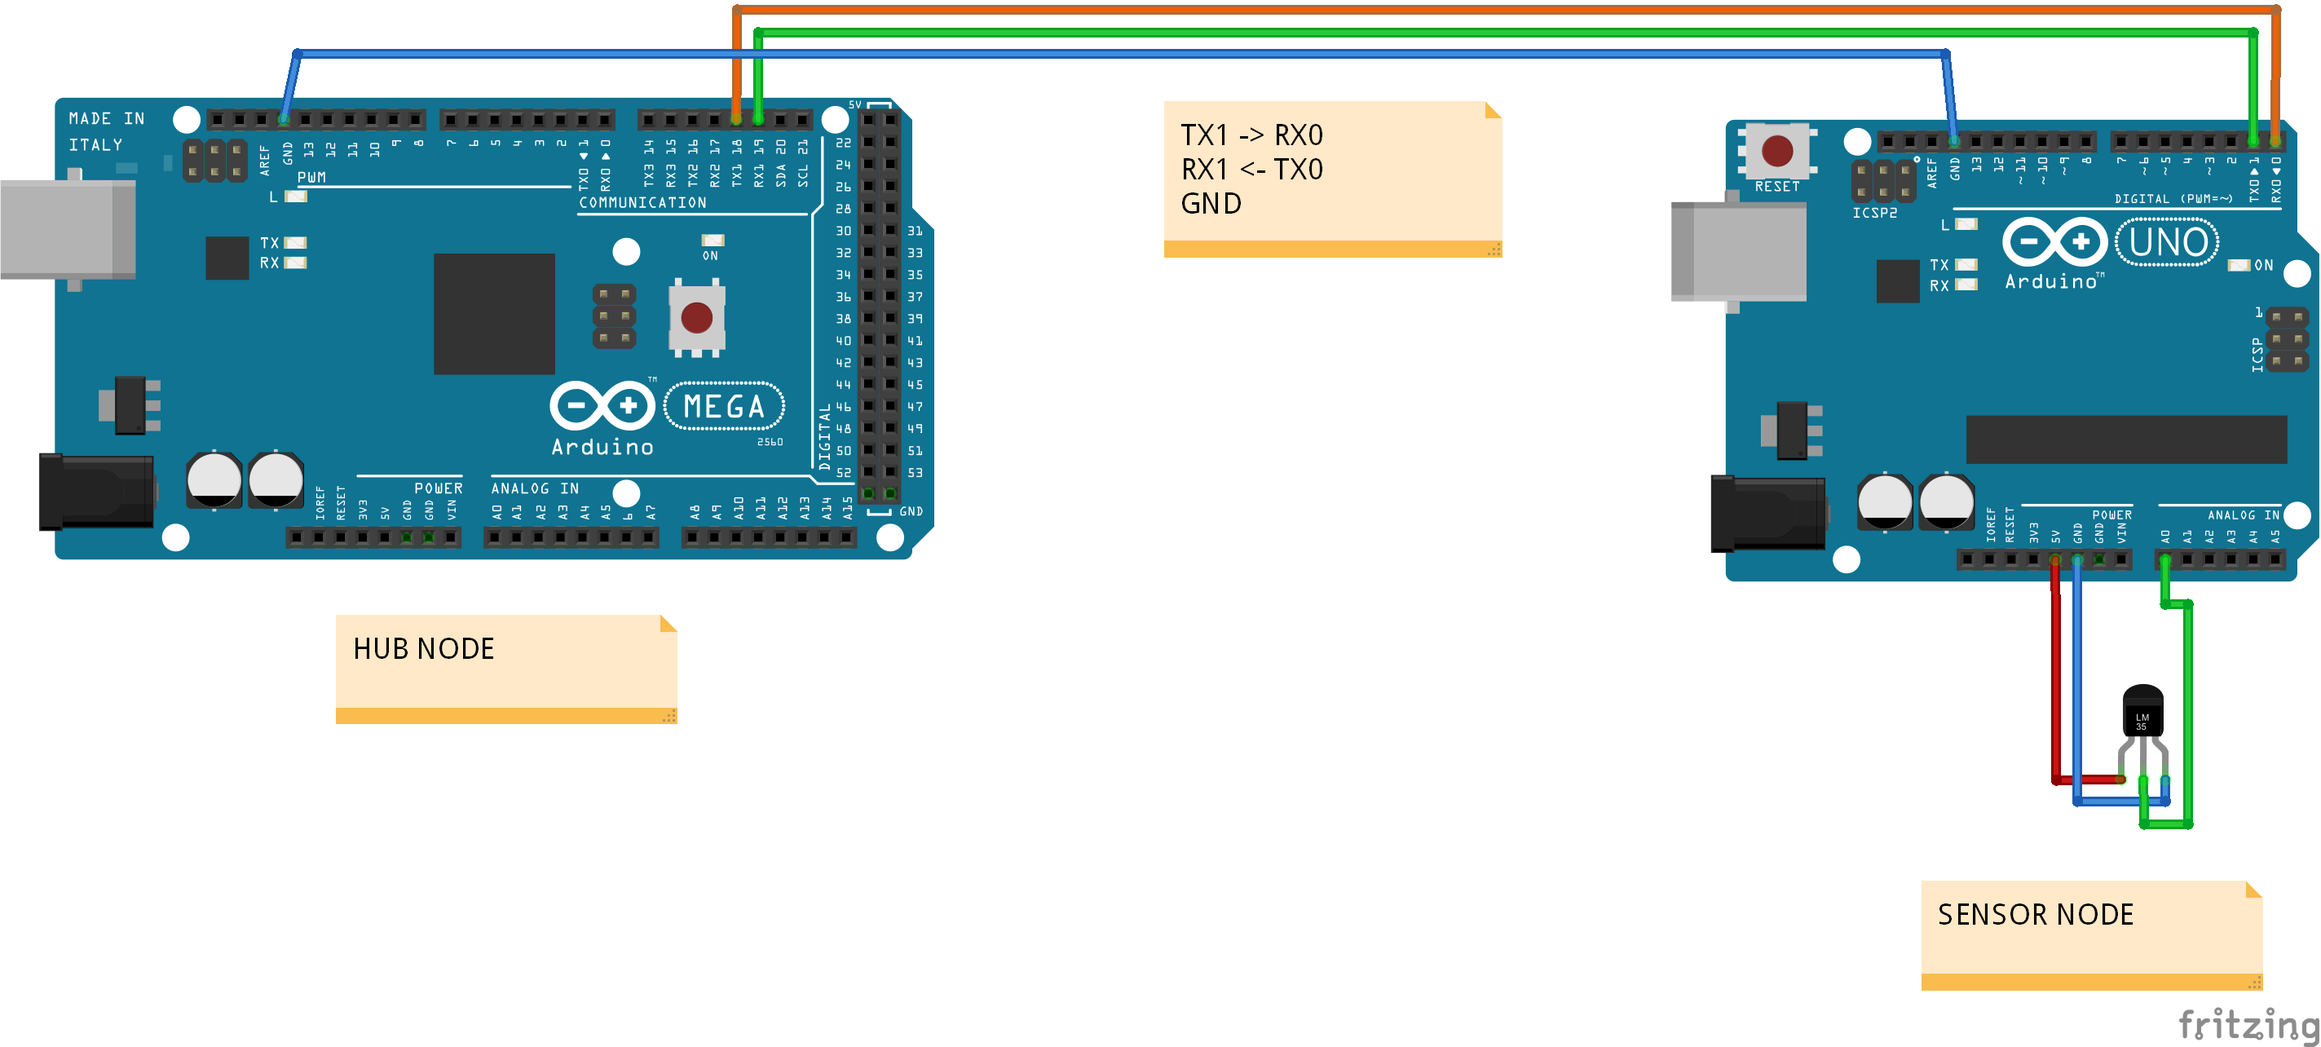
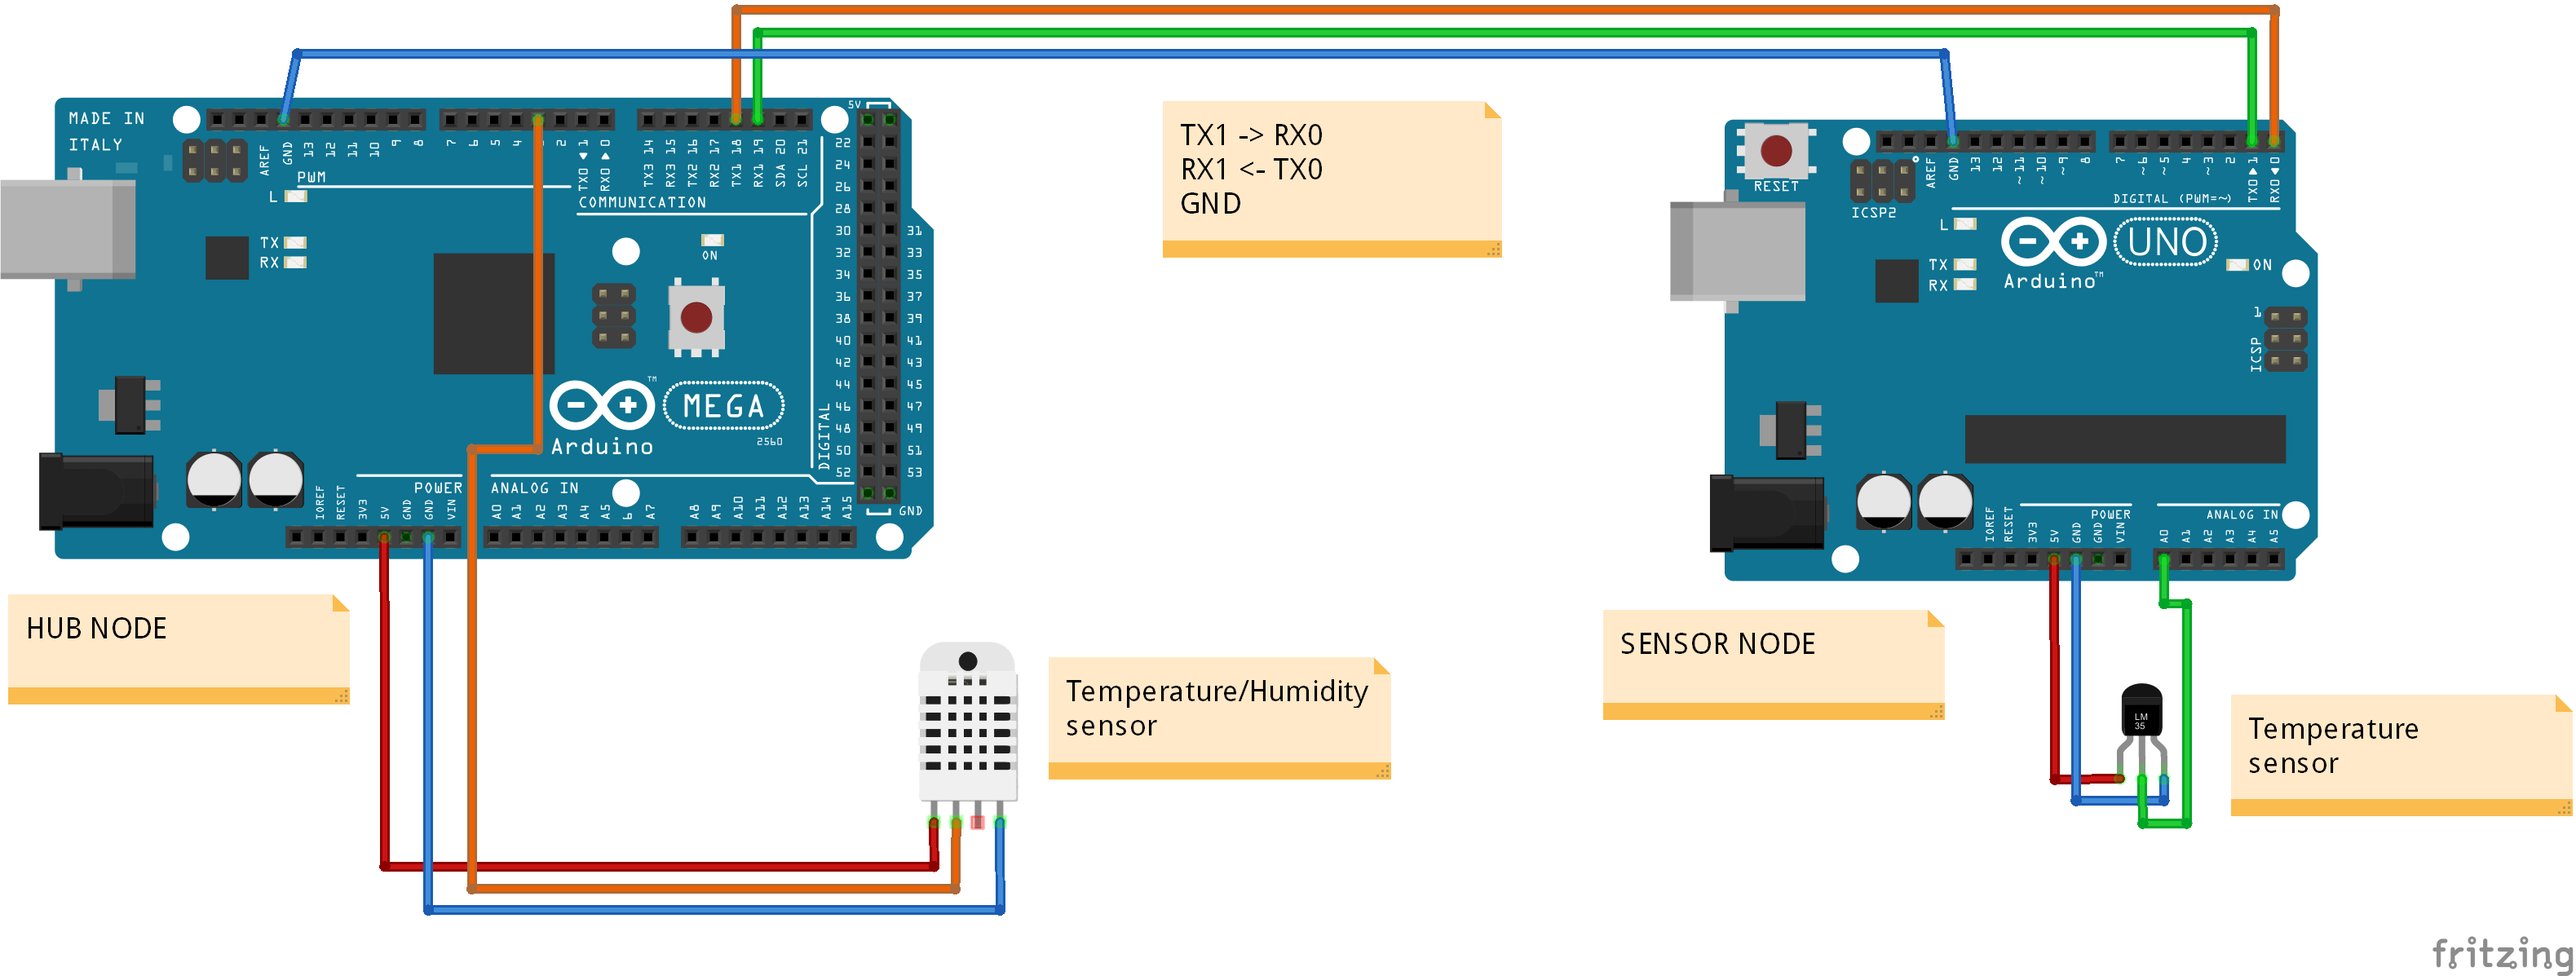
Updated examples  & minor fixes
Updated examples with read local sensor & toggle remote led
Minor fixes on HBus library
Added readSensor & minor fixes on HNode
Updated example image with local sensor

diff --git a/HNode/src/HNode.h b/HNode/src/HNode.h
@@ -271,7 +271,7 @@ class HNode : HBusMessageHandler, public HBusPinController, HBusDeviceController
     Pin* getPinByName(char* name);
     Pin* getPinByType(uint8_t index, hb_pin_type type);
     void onPinChange(char *name, uint32_t value);
-    //pinChangeCallback onPinChangeCallback;
+    pinChangeCallback onPinChangeCallback;
 #endif
     // Device commands
 #if defined(USE_DEVICES) && USE_DEVICES == 1
@@ -289,6 +289,7 @@ class HNode : HBusMessageHandler, public HBusPinController, HBusDeviceController
 #if defined(USE_SENSORS) && USE_SENSORS == 1
     uint8_t addSensor(Sensor *sensor);
     void getSensorInfo(uint8_t index);
+    hb_sensor_read_t readSensor(char* name);
     uint8_t pushSensorRead(char* name);
     uint8_t resetSensor(char* name);
     uint8_t addSensorListener(char* name, hb_address_t source, uint8_t port, uint8_t interval, uint16_t expire);
@@ -491,14 +492,11 @@ void HNode::loop()
         }
         if (strcmp(_pin[i]->name, _wire[w]->input) == 0) {
           if (_wire[w]->address == 0) {
-            //Process local HBus command
+            //Process local HBus command simulating reception from remote
             _msg.command = _wire[w]->command;
             memcpy(_msg.data, _wire[w]->data, l);
-            //&_msg.data = _wire[w]->data;
             _msg.length = l;
-            
             processCommand(_msg, 0xff);
-            
           }
           else {
             //Send remote HBus command
@@ -1025,7 +1023,7 @@ void HNode::onPinChange(char *name, uint32_t value)
   }
   if (onPinChangeCallback != 0)
     onPinChangeCallback(name, value);
-}}
+}
 //-----------------------------------------------------------
 // Returns wire information
 //-----------------------------------------------------------
@@ -1328,12 +1326,29 @@ void HNode::getSensorInfo(uint8_t index)
         _bus->setError(SENSOR_NOT_FOUND);
 }
 //-----------------------------------------------------------
-// Read sensor value
+// Read sensor value and return it
+//-----------------------------------------------------------
+hb_sensor_read_t HNode::readSensor(char* name)
+{
+#if defined(DEBUG) && DEBUG == 1 //DEBUG on Serial
+  Serial << "\tsensorRead: " << name << endl;
+#endif
+  Sensor *sensor = getSensor(name);
+
+  hb_sensor_read_t value;
+
+  if (sensor != 0) ;
+    sensor->read(&value);
+  
+  return value;
+}
+//-----------------------------------------------------------
+// Read sensor value and push into tx stack
 //-----------------------------------------------------------
 uint8_t HNode::pushSensorRead(char* name)
 {
 #if defined(DEBUG) && DEBUG == 1 //DEBUG on Serial
-  Serial << "\tpushSensorRead: " << name;
+  Serial << "\tpushSensorRead: " << name << endl;
 #endif
   Sensor *sensor = getSensor(name);
 
@@ -1349,9 +1364,6 @@ uint8_t HNode::pushSensorRead(char* name)
   _tx->pushLong(value.time);
   _tx->pushFloat(value.value);
 
-#if defined(DEBUG) && DEBUG == 1 //DEBUG on Serial
-  // Serial << " = " << value.value << endl;
-#endif
   return true;
 }
 //-----------------------------------------------------------
@@ -2024,10 +2036,10 @@ Serial << "CMD_ACTIVATE" << _tmp_name << endl;
       getSensorInfo(_value[0]);
       break;
     case CMD_READ_SENSOR:
-#if defined(DEBUG) && DEBUG == 1 //DEBUG on Serial
-  Serial << "=> CMD_READ_SENSOR" << endl;
-#endif
       _rx->popName(_tmp_name); //name
+#if defined(DEBUG) && DEBUG == 1 //DEBUG on Serial
+  Serial << "=> CMD_READ_SENSOR" << _tmp_name << endl;
+#endif
       processed = pushSensorRead(_tmp_name);
       break;
     case CMD_RESET_SENSOR:
@@ -2060,8 +2072,8 @@ Serial << "CMD_ACTIVATE" << _tmp_name << endl;
 #endif
       //Pop sensor read from stack
       _rx->popName(value.name);
-      value.time = _tx->popLong();
-      value.value= _tx->popFloat();
+      value.time = _rx->popLong();
+      value.value= _rx->popFloat();
       //Call external handler
       if (onSensorReadCallback!= 0)
         processed = onSensorReadCallback(value);
@@ -2082,7 +2094,30 @@ Serial << "CMD_ACTIVATE" << _tmp_name << endl;
 //-----------------------------------------------------------
 uint8_t HNode::processAck(hb_message_t ack, uint8_t port) 
 {
-    return true; //not really processed from HBus nodes
+  hb_sensor_read_t value;
+
+  //Init rx stacks
+  _rx->setData(ack.data, ack.length);
+  _rx->clearReadIndex();
+  _bus->resetError();
+
+  uint8_t processed = true;
+
+  if ((ack.flags & ACK_MSG) != 0)
+    switch(ack.command)
+    {
+      case CMD_READ_SENSOR:
+        //Pop sensor read from stack
+        _rx->clear();
+        _rx->popName(value.name);
+        value.time = _rx->popLong();
+        value.value= _rx->popFloat();
+        //Call external handler
+        if (onSensorReadCallback!= 0)
+          return onSensorReadCallback(value);
+        break;
+    }
+  return true; //not really processed from HBus nodes
 }
 //===========================================================
 // DEBUG

diff --git a/HNode/src/sensors/SensorAnalog.h b/HNode/src/sensors/SensorAnalog.h
@@ -33,13 +33,14 @@
 class SensorAnalog : public Sensor {
   private:
     uint8_t _pin;
-        
+    float _factor;
+    
   public:
     //========================================================
     //Constructors
     //========================================================
     SensorAnalog(SimpleStack *ss);
-    SensorAnalog(char* name, uint8_t pin, char* source, char* hardware, char* unit, float minRange, float maxRange, float scale);
+    SensorAnalog(char* name, uint8_t pin, char* hardware, char* unit, float minRange, float maxRange, float scale);
     //========================================================
     //Methods
     //========================================================
@@ -60,23 +61,24 @@ SensorAnalog::SensorAnalog(SimpleStack *ss) {
 // -------------------------------------------------------
 //Default constructor with parameters
 // -------------------------------------------------------
-SensorAnalog::SensorAnalog(char* name, uint8_t pin, char* source, char* hardware, char* unit, float minRange, float maxRange, float scale) {
+SensorAnalog::SensorAnalog(char* name, uint8_t pin, char* hardware, char* unit, float minRange, float maxRange, float scale) {
 
-    //Set variable configuration
-    strcpy(info.name, name);
-    _pin = pin;
-    strcpy(info.source, source);
-    strcpy(info.hardware, hardware);
-    strcpy(info.unit, unit);
-    info.minRange = minRange;
-    info.maxRange = maxRange;
-    info.scale = scale;
+  //Set variable configuration
+  strcpy(info.name, name);
+  _pin = pin;
+  itoa(pin, info.source, 10);
+  strcpy(info.hardware, hardware);
+  strcpy(info.unit, unit);
+  info.minRange = minRange;
+  info.maxRange = maxRange;
+  info.scale = scale;
+  _factor = (info.maxRange - info.minRange)/ (MAX_ANALOG - MIN_ANALOG) * info.scale;
 }
 // -------------------------------------------------------
 // Init sensor
 // -------------------------------------------------------
 void SensorAnalog::begin() {
-    pinMode(_pin, INPUT);  
+  pinMode(_pin, INPUT);  
 }
 
 // -------------------------------------------------------
@@ -87,7 +89,7 @@ char* SensorAnalog::status() { return ""; }
 // Read sensor value
 // -------------------------------------------------------
 void SensorAnalog::read(hb_sensor_read_t* value) {
-  (*value).value = analogRead(_pin) * info.scale + info.minRange;
+  (*value).value = analogRead(_pin) * _factor + info.minRange;
   (*value).time = scheduler->getTime();
   strcpy((*value).name, info.name);
   
@@ -100,13 +102,14 @@ void SensorAnalog::read(hb_sensor_read_t* value) {
 // -------------------------------------------------------
 void SensorAnalog::deserializeConfig(SimpleStack *ss) {
   ss->popName(info.name);
-  _pin = ss->popByte();
   ss->popName(info.source);
+  _pin = (uint8_t) atoi(info.source);
   ss->popName(info.hardware);
   ss->popName(info.unit);
   info.minRange = ss->popFloat();
   info.maxRange = ss->popFloat();
   info.scale = ss->popFloat();
+  _factor = (info.maxRange - info.minRange)/ (MAX_ANALOG - MIN_ANALOG) * info.scale;
 }
 // -------------------------------------------------------
 // serialize configuration
@@ -115,7 +118,6 @@ void SensorAnalog::deserializeConfig(SimpleStack *ss) {
 void SensorAnalog::serializeConfig(SimpleStack *ss) {
   //Push data
   ss->pushName(info.name);
-  ss->pushByte(_pin);
   ss->pushName(info.source);
   ss->pushName(info.hardware);
   ss->pushName(info.unit);

diff --git a/HBus/src/HBus.h b/HBus/src/HBus.h
@@ -393,7 +393,7 @@ class HBus {
       //Message for the node or in broadcast
       if (for_me || broadcast || no_address)
       {
-        if (type == NORMAL_MSG || type != IMMEDIATE_MSG) {
+        if (type == NORMAL_MSG || type == IMMEDIATE_MSG) {
           //COMMAND RECEIVED
           //External command handler
           //used from external c++ libraries
@@ -401,11 +401,13 @@ class HBus {
           if (_externalHandler) {
             processed = _externalHandler->processCommand(_rx_msg, port);
           }
-          else if (receivedCommand) {
-            //Direct command handler
-            //used from sketches
-            processed = receivedCommand(_rx_msg, port);
-            delay(100);
+          else {
+            if (receivedCommand) {
+              //Direct command handler
+              //used from sketches
+              processed = receivedCommand(_rx_msg, port);
+              delay(100);
+            }
           }
         }
         else {
@@ -414,7 +416,7 @@ class HBus {
           //TODO: Implement correct message id
           //***********************************
           //Waiting for ack : check if id is correct
-          uint16_t id = _rx_msg.data[0] << 8 | _rx_msg.data[1];
+          //uint16_t id = _rx_msg.data[_rx_msg.length-4] << 8 | _rx_msg.data[_rx_msg.length-3];
           if (true)//if (id == _ack_crc)
           {
               //Process ack/nack externally

diff --git a/HBus/src/HBusDefines.h b/HBus/src/HBusDefines.h
@@ -48,9 +48,10 @@ const uint8_t MAX_COMMANDS = 32;    // Max number of supported commands
 const uint8_t MAX_ACTIONS = 4;      // Max number of device actions
 const uint16_t MAX_EEPROM = 0x1000;   // Max EEPRom memory
 const uint16_t DEFAULT_EEPROM = 0x800;   //Offset for default configuration
+const uint16_t MIN_ANALOG = 0;      //Min analog ADC value
+const uint16_t MAX_ANALOG = 1023;   //Max analog ADC value
 #endif
-
-#if defined(HW_TYPE) && HW_TYPE != HW_ARDUINO_MEGA
+#if defined(HW_TYPE) && (HW_TYPE == HW_ARDUINO_UNO || HW_TYPE == HW_ARDUINO_MINI)
 const uint8_t MAX_NODES = 8;		  // Max network nodes
 const uint8_t MAX_PORTS = 2;		  // Max Communication serial ports
 const uint8_t MAX_READ = 100;		  // Data reception timeout
@@ -67,6 +68,8 @@ const uint8_t MAX_COMMANDS = 32;  // Max number of supported commands
 const uint8_t MAX_ACTIONS = 4;    // Max number of device actions
 const uint16_t MAX_EEPROM = 0x400;   // Max EEPRom memory
 const uint16_t DEFAULT_EEPROM = 0x200;   //Offset for default configuration
+const uint16_t MIN_ANALOG = 0;      //Min analog ADC value
+const uint16_t MAX_ANALOG = 1023;   //Max analog ADC value
 #endif
 
 //-------------------------------------------------------

diff --git a/HNode/src/sensors/Sensor.h b/HNode/src/sensors/Sensor.h
@@ -59,13 +59,14 @@ typedef struct {
 
 //External handler
 extern "C" {
-	// callback function types
-    typedef uint8_t (*sensorReadCallback)(hb_sensor_read_t sensorRead);
+	// callback function types called from node -> external sketches
+  typedef uint8_t (*sensorReadCallback)(hb_sensor_read_t sensorRead);
 } 
 class HBusSensorController
 {
    public:
-      virtual void onSensorRead(hb_sensor_read_t sensorRead) {};
+    // callback function called from sensors instances -> node
+    virtual void onSensorRead(hb_sensor_read_t sensorRead) {};
 };
 
 class Sensor {
